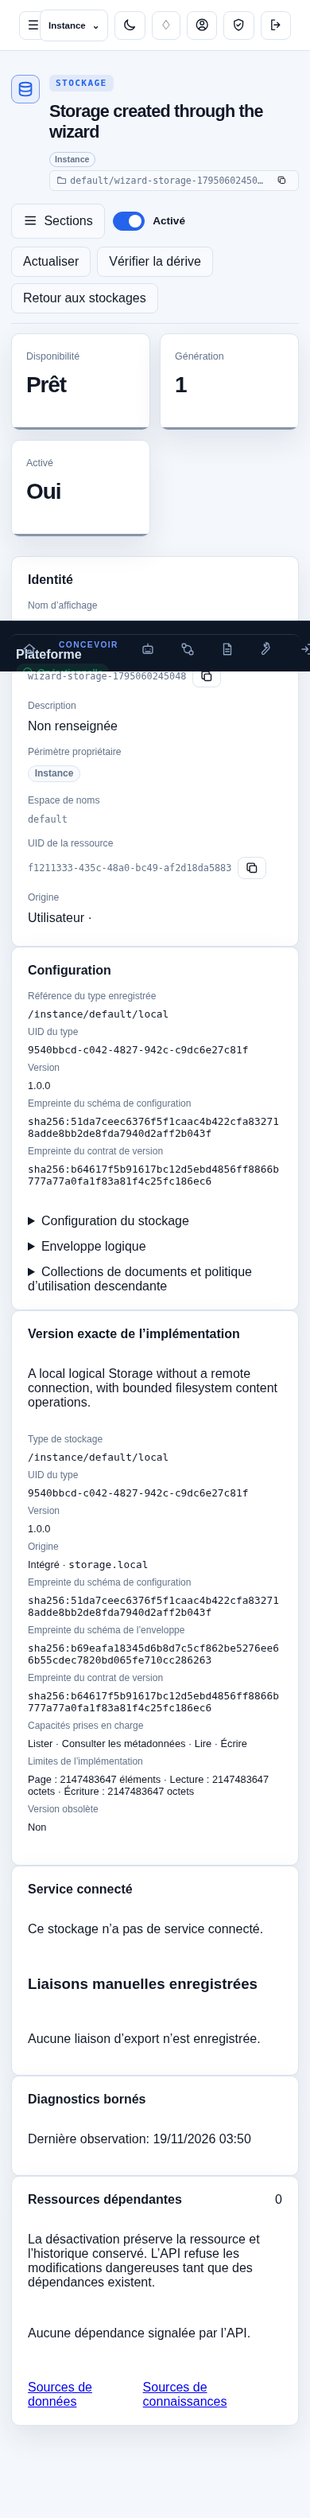
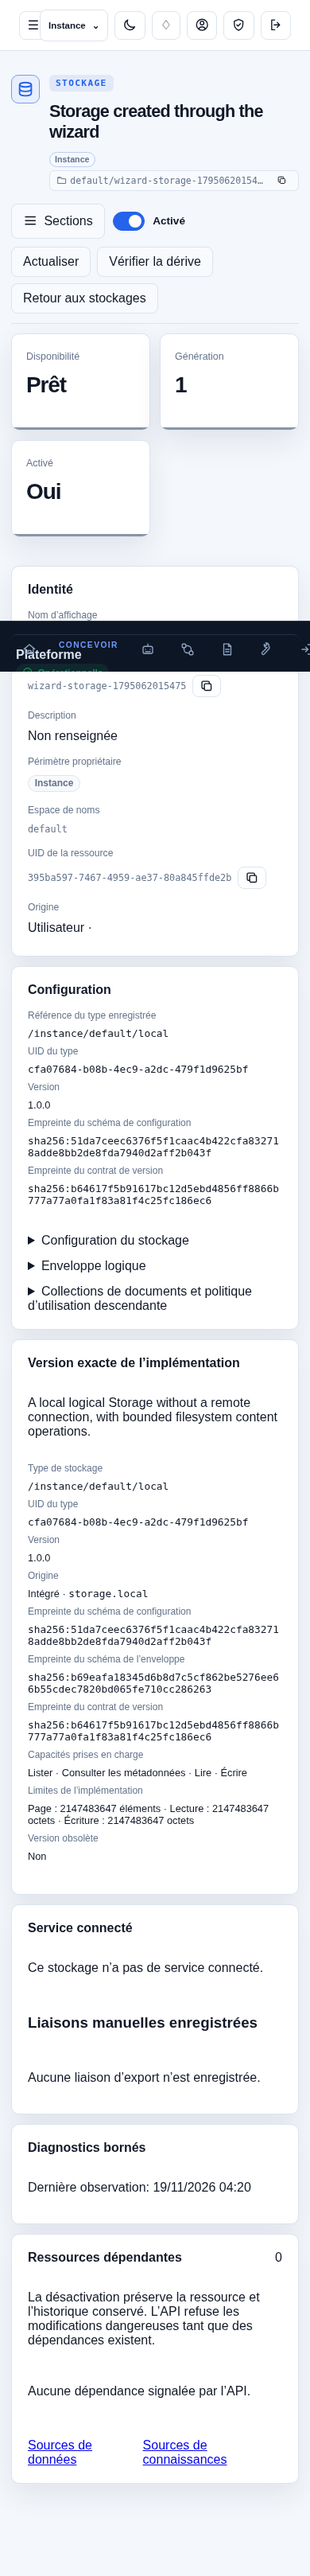
docs(ux): capture artifact audit and spaced resource panels

diff --git a/docs/ux/resource-screen-adoption.md b/docs/ux/resource-screen-adoption.md
@@ -8,7 +8,7 @@ The table is a source inventory, not a claim of browser validation. Route aliase
 | --- | --- | --- |
 | AgentEditor.razor | `/agents/new`, `/agents/{Name}` | Implemented: 6-step creation wizard, saved Identity/owner, exact-owner YAML and retained Access drafts. 27 Agent/shared-access cases and 2 maintained desktop/mobile browser cases pass; [real captures](evidence/resource-screen-adoption/agents/README.md). Final full validation remains pending. |
 | AgentRunner.razor | `/agents/{Name}/run`, `/runs/{RunId}` | Pending review and migration |
-| ConnectedServiceDetails.razor | `/connected-services/{Name}` | Implemented: shared template and Overview/Definition/Discovery/Access/final YAML navigation, saved Identity/owner/configuration, retained definition/discovery and lazy UID-based policy drafts. Existing immediate activation/deactivation confirmations and ETags preserve other edits. Exact body and superseded-load guards retain authorized owner/namespace/context. 36 service/source component cases and the 810-case Console suite pass; At `81b3095a`, both desktop English/dark and French touch/light probes and maintained collection regressions pass; [real captures](evidence/resource-screen-adoption/connected-services/README.md). Final full validation pending. |
+| ConnectedServiceDetails.razor | `/connected-services/{Name}` | Implemented: shared template and Overview/Definition/Discovery/Access/final YAML navigation, saved Identity/owner/configuration, retained definition/discovery and lazy UID-based policy drafts. Existing immediate activation/deactivation confirmations and ETags preserve other edits. Exact body and superseded-load guards retain authorized owner/namespace/context. 36 service/source component cases and the 810-case Console suite pass; At `81b3095a`, both desktop English/dark and French touch/light probes and maintained collection regressions pass; [real captures](evidence/resource-screen-adoption/connected-services/README.md). Final full validation pending. Fresh `050e9607` desktop/French touch probes also verify the positive saved-panel gap; [updated captures](evidence/resource-screen-adoption/connected-services/README.md). Final required functional lanes and smoke validation remain pending. |
 | ConnectedServiceEditor.razor | `/connected-services/new`, `/connected-services/{Name}/edit` | Implemented: shared 4-step Identity/Configuration/Access/Review wizard, unrestricted incomplete navigation and final validation, retained standard fields and binding editors, exact type UID/version/hash, contextual dialogs outside forms and family-owned draft/ETag control. The standalone edit alias redirects once to canonical detail Configuration. 36 service/source component cases and the 810-case Console suite pass for the combined editor/detail changes; At `81b3095a`, both desktop English/dark and French touch/light probes pass; [real captures](evidence/resource-screen-adoption/connected-services/README.md). Final full validation pending. |
 | ConsoleEntryInteraction.razor | `/entry-interactions/{WorkspaceId:guid}/{EntryNamespace}/{EntryName}` | Pending review and migration |
 | DataSourceEditor.razor | `/data-sources/new`, `/data-sources/{Name}` | Pending review and migration |
@@ -18,7 +18,7 @@ The table is a source inventory, not a claim of browser validation. Route aliase
 | FlowDesigner.razor | `/flows/{FlowId}/designer`, `/namespaces/{FlowNamespace}/flows/{FlowId}/designer` | Pending review and migration |
 | FlowDetails.razor | `/flows/{FlowId}`, `/namespaces/{FlowNamespace}/flows/{FlowId}` | Pending review and migration |
 | FlowOrchestrationEditor.razor | `/flows/{FlowId}/orchestration`, `/namespaces/{FlowNamespace}/flows/{FlowId}/orchestration` | Pending review and migration |
-| FlowRunArtifactDetails.razor | `/artifacts/durable/{Id}` | Implemented: shared template and Overview/Content/Storage navigation, exact saved Identity/owner and immutable provenance/receipt. Content is lazy and retained across fragments; record reads and metadata ignore superseded responses. No publication or activation is invented. Maintained browser helpers use shared navigation; 19 artifact component cases pass, including lazy retained content and no reload for fragments. Browser/final validation pending |
+| FlowRunArtifactDetails.razor | `/artifacts/durable/{Id}` | Implemented: shared template and Overview/Content/Storage navigation, exact saved Identity/owner and immutable provenance/receipt. Content is lazy and retained across fragments; record reads and metadata ignore superseded responses. No publication or activation is invented. Maintained browser helpers use shared navigation; 19 artifact component cases pass, including lazy retained content and no reload for fragments. Browser/final validation pending At product build `050e9607`, maintained artifact-content desktop/mobile cases, real desktop/French touch artifact captures and governed-knowledge desktop/mobile/French journeys pass. [Real captures](evidence/resource-screen-adoption/artifacts/README.md). Final required functional lanes and smoke validation remain pending. |
 | FlowRunDetails.razor | `/flow-runs/{RunId}` | Pending review and migration |
 | KnowledgeSourceDetails.razor | `/knowledge-sources/{Name}` | Pending review and migration |
 | KnowledgeSourceEditor.razor | `/knowledge-sources/new`, `/knowledge-sources/{Name}/edit` | Pending review and migration |
@@ -40,8 +40,8 @@ The table is a source inventory, not a claim of browser validation. Route aliase
 | SourceProviderDetails.razor | `/sourceproviders/new`, `/sourceproviders/{Name}` | Implemented; 6 component cases and desktop/mobile creation against the real local Git extension pass; [real captures](evidence/resource-screen-adoption/source-providers/README.md). Final full validation remains pending. |
 | SourceRegistries.razor | `/settings/source-registries`, `/settings/source-registries/new`, `/settings/source-registries/{Name}` | Pending review and migration |
 | Sources.razor | `/settings/sources`, `/settings/sources/{Publisher}/{Name}` | Pending review and migration |
-| StagedArtifactDetails.razor | `/artifacts/staged/{Id}` | Implemented: shared template and Overview/Content/Retention navigation, actual file and identifier Identity without a fabricated resource namespace/owner. Visited content and retention input survive section changes; bounded reads, lease checks and family retention/purge commands remain intact. Shared confirmation restores native focus handling; superseded reads/commands cannot update another artifact. 20 artifact component cases pass, including retained pending expiration and the exact retention command. Browser/final validation pending |
-| StorageDetails.razor | `/storages/{Name}` | Implemented: template and Overview/Definition/authorized Access/final YAML navigation, actual Identity and saved configuration ahead of type/service evidence and diagnostics. Header activation preserves exact references, original confirmation behavior, independent definition drafts and returned ETags. Refresh requires explicit draft discard; Access is lazy and retained with the saved UID/generation and its own dirty guard. Canonical links preserve owner/namespace/context. 134 Storage/source component cases pass for the combined changes. At `81b3095a`, desktop and French touch probes verify exact references, retained drafts and activation ETags; maintained collection regressions pass; [real captures](evidence/resource-screen-adoption/storages/README.md). Final full validation pending. |
+| StagedArtifactDetails.razor | `/artifacts/staged/{Id}` | Implemented: shared template and Overview/Content/Retention navigation, actual file and identifier Identity without a fabricated resource namespace/owner. Visited content and retention input survive section changes; bounded reads, lease checks and family retention/purge commands remain intact. Shared confirmation restores native focus handling; superseded reads/commands cannot update another artifact. 20 artifact component cases pass, including retained pending expiration and the exact retention command. Browser/final validation pending At product build `050e9607`, maintained bounded-content and governed-knowledge desktop/mobile/French journeys pass, including retention/purge. [Real captures](evidence/resource-screen-adoption/artifacts/README.md). A later unbuilt CSS change permits the desktop expiration value to wrap; it needs fresh verification. Final required functional lanes and smoke validation remain pending. |
+| StorageDetails.razor | `/storages/{Name}` | Implemented: template and Overview/Definition/authorized Access/final YAML navigation, actual Identity and saved configuration ahead of type/service evidence and diagnostics. Header activation preserves exact references, original confirmation behavior, independent definition drafts and returned ETags. Refresh requires explicit draft discard; Access is lazy and retained with the saved UID/generation and its own dirty guard. Canonical links preserve owner/namespace/context. 134 Storage/source component cases pass for the combined changes. At `81b3095a`, desktop and French touch probes verify exact references, retained drafts and activation ETags; maintained collection regressions pass; [real captures](evidence/resource-screen-adoption/storages/README.md). Final full validation pending. Fresh `050e9607` desktop/French touch probes also verify the positive saved-panel gap; [updated captures](evidence/resource-screen-adoption/storages/README.md). Final required functional lanes and smoke validation remain pending. |
 | StorageEditor.razor | `/storages/new`, `/storages/{Name}/edit` | Implemented: retained 4-step Identity/Configuration/Access/Review wizard, incomplete navigation and final field validation, original explicit type/service/export selection, saved UID/version/digests, envelope, collections and rebind confirmation. Saved embedded drafts expose their real form and ETag control to the family detail; standalone edit redirects once to canonical Configuration. 134 Storage/source component cases pass for the combined editor/detail changes, including creation after an initial validation error. At `81b3095a`, desktop and French touch probes pass final validation, creation, activation and subsequent metadata save; [real captures](evidence/resource-screen-adoption/storages/README.md). Final full validation pending. |
 | StorageTypeDetails.razor | `/storage-types/{Name}` | Implemented: template and Overview/metadata Definition/immutable Versions/authorized Access/final YAML navigation. Saved Identity, preferred contract and Use policy are explicit; unevaluated Use remains unknown. Version selection survives fragments, publication links select the exact returned version, and header activation preserves metadata drafts, version payloads and ETags. Lazy retained Access uses the saved UID/generation. 50 combined Storage/type component cases pass; At `81b3095a`, desktop and French touch probes verify publication and retained immutable contract selection; maintained collection regressions pass; [real captures](evidence/resource-screen-adoption/storage-types/README.md). Final full validation pending. |
 | StorageTypeEditor.razor | `/storage-types/new`, `/storage-types/{Name}/edit`, `/storage-types/{Name}/versions/new` | Implemented: shared creation wizard and separate new-version wizard, retained standard identity/contract fields and raw invalid schemas, explicit immutable version and preferred-version choice, shared binary switches and final validation. Metadata editing composes into the family detail; exact ETags, managed/inherited restrictions and explicit conflict review retain pending input and immutable contracts. 50 combined Storage/type component cases pass, including new version publication without modifying its predecessor. At `81b3095a`, desktop and French touch probes pass invalid schema retention, final creation validation and explicit immutable publication; [real captures](evidence/resource-screen-adoption/storage-types/README.md). Final full validation pending. |
@@ -50,9 +50,9 @@ The table is a source inventory, not a claim of browser validation. Route aliase
 | ToolCategoryEditor.razor | `/tools/categories/new`, `/tools/categories/{Name}` | Implemented: 3-step wizard/template, saved Identity and exact declarations, retained provider-grouped picker, original ETags and owner-response verification. 10 component cases and source/catalog checks pass; 2 real desktop/mobile probes pass at `c27c8c82`. [Real captures](evidence/resource-screen-adoption/tool-categories/README.md). Final full validation pending |
 | ToolDefinitionEditor.razor | `/tools/definitions/{Name}` | Implemented: saved Flow/acquisition/relay composition, Identity and saved configuration, retained definition sections and lazy UID-based Access, exact-owner history and ETag-preserving commands. Relay retains live bindings, external contextual dialogs and explicit publication review. 61 targeted component, 18 ToolDefinition/relay API and 3 client cases pass; full Console suite: 804 passing cases. 2 real desktop/touch-mobile probes and the maintained schema-contract journey pass; [real captures](evidence/resource-screen-adoption/tool-definitions/README.md). Final full validation pending |
 | ToolDetails.razor | `/tools/{Name}` | Implemented: saved Identity/configuration, ETag-preserving header activation switch, exact-owner reads and execution, retained execution input/results and Access drafts. 8 Tool and 10 category regression cases pass; fresh browser and final full validation pending |
-| ToolGovernanceAudit.razor | `/tool-governance/{Owner}/{RunId}` | Implemented: shared template and Overview/Audit navigation with exact business execution identity; owner kind and execution scope remain explicit context. Standard filter fields and retained input preserve deep filters and real 50-item sequence continuation. Fragment changes avoid reloads and superseded reads cannot replace another execution. Audit remains the initial destination for existing deep call links. 25 combined audit/artifact component cases pass, including retained deep filters, actual pagination and superseded execution responses. Browser/final validation pending |
+| ToolGovernanceAudit.razor | `/tool-governance/{Owner}/{RunId}` | Implemented: shared template and Overview/Audit navigation with exact business execution identity; owner kind and execution scope remain explicit context. Standard filter fields and retained input preserve deep filters and real 50-item sequence continuation. Fragment changes avoid reloads and superseded reads cannot replace another execution. Audit remains the initial destination for existing deep call links. 25 combined audit/artifact component cases pass, including retained deep filters, actual pagination and superseded execution responses. Browser/final validation pending At product build `050e9607`, actual desktop/French touch audit probes pass retained filters and bounds; [real captures](evidence/resource-screen-adoption/execution-audit/README.md). A later invalid-owner label guard needs its component check. Final required functional lanes and smoke validation remain pending. |
 | ToolProviderEditor.razor | `/tools/providers/new`, `/tools/providers/{Name}` | Implemented; 8 component cases, desktop/mobile overview and Tools probes, and 4 managed-inventory browser variants pass; [real captures](evidence/resource-screen-adoption/tool-providers/README.md). Final full validation remains pending. |
-| ToolSetDetails.razor | `/tools/sets/{Name}` | Implemented: template, saved Identity/configuration, version history and retained Access. Header activation is read-only because the existing family client has no enablement command. 12 managed-family component cases and source/catalog checks pass; browser and final full validation pending |
+| ToolSetDetails.razor | `/tools/sets/{Name}` | Implemented: template, saved Identity/configuration, version history and retained Access. Header activation is read-only because the existing family client has no enablement command. 12 managed-family component cases and source/catalog checks pass; browser and final full validation pending At product build `050e9607`, maintained governed-knowledge desktop/mobile/French journeys pass immutable history, Agent pins, deletion restrictions and reader authorization. The maintained helpers explicitly navigate Overview/Versions and target native confirmations. Final required functional lanes and smoke validation remain pending. |
 | TransformationFunctionEditor.razor | `/transformation-functions/{Name}` | Pending review and migration |
 | TriggerDetails.razor | `/triggers/{Name}` | Pending review and migration |
 | TriggerEditor.razor | `/triggers/new`, `/triggers/{Name}/edit` | Pending review and migration |

diff --git a/docs/ux/evidence/resource-screen-adoption/connected-services/README.md b/docs/ux/evidence/resource-screen-adoption/connected-services/README.md
@@ -1,12 +1,14 @@
-# Connected services: application evidence
+# Connected services: real application evidence
 
-Source: `81b3095ad9caa023addccb5f3d121476fbe0017b`. These PNGs are screenshots of the running application, not mock-ups. The Release host build completed before the campaign and no referenced assemblies changed during it.
+Product build: `050e9607ef2f53506aedab87cb43aa45aac71fe5` (Release, no warning or error; 823 Console component cases pass). Assemblies stayed unchanged throughout the campaigns. Screenshots are real Chromium captures, not mock-ups.
 
-Creation with incomplete navigation and final validation, saved Identity and configuration, a retained definition draft, explicit discard and actual save. The temporary probe uses tap on its own mobile controls; shared page-object navigation uses click. It does not claim a fresh policy-write or every discovery command.
+Creation with incomplete navigation/final validation, saved Identity, retained definition input, discard and a real metadata save. Both variants now verify positive space between Identity and Configuration, after styles are applied. Mobile probe controls use tap; shared page-object navigation uses click. These images do not claim every discovery command or a policy-write transaction.
 
-Both desktop English/dark (1440×1000) and French touch/light (390×844) pass horizontal-bound checks before each capture. Prerequisites await persisted preferences, language and theme; the operational setup hard-reloads the shell after changing preferences.
+Desktop English/dark is 1440×1000; French light/touch is 390×844. Setup awaits persisted preferences, actual language/theme and context readiness.
 
-At this commit the Release solution build has no warning or error, and all 819 Console component cases pass. The temporary storage, connected-service and operational probes (6 cases), maintained connected/storage collection regression (2 cases), and separate temporary storage-type probes (2 cases) pass. These are focused evidence, not the final required Fast/Integration and browser-smoke validation. New reusable UX journeys remain deferred under the repository authoring rules.
+The first temporary geometry probe measured immediately after navigation and failed before the styles were applied; its failure screenshot already showed the intended gap. The corrected probe polls the SAME positive-spacing assertion with Playwright’s default timeout. Both fresh variants pass on the unchanged product build. No assertion was removed or timeout increased.
+
+Final required Fast/Integration and browser smoke validation remains pending. New reusable UX journeys stay deferred under the repository authoring rules. Later unbuilt member-screen edits are not covered by this source commit.
 
 - [connected-service-review-desktop-en.png](connected-service-review-desktop-en.png)
 - [connected-service-overview-desktop-en.png](connected-service-overview-desktop-en.png)

diff --git a/docs/ux/evidence/resource-screen-adoption/storages/README.md b/docs/ux/evidence/resource-screen-adoption/storages/README.md
@@ -1,12 +1,14 @@
-# Storages: application evidence
+# Storages: real application evidence
 
-Source: `81b3095ad9caa023addccb5f3d121476fbe0017b`. These PNGs are screenshots of the running application, not mock-ups. The Release host build completed before the campaign and no referenced assemblies changed during it.
+Product build: `050e9607ef2f53506aedab87cb43aa45aac71fe5` (Release, no warning or error; 823 Console component cases pass). Assemblies stayed unchanged throughout the campaigns. Screenshots are real Chromium captures, not mock-ups.
 
-Creation with incomplete navigation, inline identity errors and successful final validation. Exact built-in local type UID/version is checked through scoped API reads. Header deactivation confirms, retains another metadata draft and supplies the fresh ETag to its subsequent save; the exact type reference survives. Mobile probe controls use tap.
+Creation, final identity validation, exact authorized built-in type UID/version and metadata save after header deactivation preserve pending input, the immutable reference and returned ETag. Both variants also verify positive space between the saved Identity and Configuration panels after styles are applied. Mobile probe controls use real tap.
 
-Both desktop English/dark (1440×1000) and French touch/light (390×844) pass horizontal-bound checks before each capture. Prerequisites await persisted preferences, language and theme; the operational setup hard-reloads the shell after changing preferences.
+Desktop English/dark is 1440×1000; French light/touch is 390×844. Setup awaits persisted preferences, actual language/theme and context readiness.
 
-At this commit the Release solution build has no warning or error, and all 819 Console component cases pass. The temporary storage, connected-service and operational probes (6 cases), maintained connected/storage collection regression (2 cases), and separate temporary storage-type probes (2 cases) pass. These are focused evidence, not the final required Fast/Integration and browser-smoke validation. New reusable UX journeys remain deferred under the repository authoring rules.
+The first temporary geometry probe measured immediately after navigation and failed before the styles were applied; its failure screenshot already showed the intended gap. The corrected probe polls the SAME positive-spacing assertion with Playwright’s default timeout. Both fresh variants pass on the unchanged product build. No assertion was removed or timeout increased.
+
+Final required Fast/Integration and browser smoke validation remains pending. New reusable UX journeys stay deferred under the repository authoring rules. Later unbuilt member-screen edits are not covered by this source commit.
 
 - [storage-review-desktop-en.png](storage-review-desktop-en.png)
 - [storage-overview-desktop-en.png](storage-overview-desktop-en.png)

diff --git a/docs/ux/evidence/resource-screen-adoption/execution-audit/README.md b/docs/ux/evidence/resource-screen-adoption/execution-audit/README.md
@@ -1,0 +1,16 @@
+# Execution governance audit: real application evidence
+
+Product build: `050e9607ef2f53506aedab87cb43aa45aac71fe5` (Release, no warning or error; 823 Console component cases pass). Assemblies stayed unchanged throughout the campaigns. Screenshots are real Chromium captures, not mock-ups.
+
+The real storage Flow execution supplies the audit target. Overview shows the actual execution kind/ID and business context; Audit retains a pending logical-call filter across sections. This capture does not assert a nonempty audit, pagination or a specific hook decision; component tests independently cover real cursor forwarding and superseded responses. Mobile navigation uses actual tap. Both document width and positive panel spacing are checked.
+
+Desktop English/dark is 1440×1000; French light/touch is 390×844. Setup awaits persisted preferences, actual language/theme and context readiness.
+
+The first temporary geometry probe measured immediately after navigation and failed before the styles were applied; its failure screenshot already showed the intended gap. The corrected probe polls the SAME positive-spacing assertion with Playwright’s default timeout. Both fresh variants pass on the unchanged product build. No assertion was removed or timeout increased.
+
+Final required Fast/Integration and browser smoke validation remains pending. New reusable UX journeys stay deferred under the repository authoring rules. Later unbuilt member-screen edits are not covered by this source commit.
+
+- [execution-audit-overview-desktop-en.png](execution-audit-overview-desktop-en.png)
+- [execution-audit-retained-filter-desktop-en.png](execution-audit-retained-filter-desktop-en.png)
+- [execution-audit-overview-mobile-fr.png](execution-audit-overview-mobile-fr.png)
+- [execution-audit-retained-filter-mobile-fr.png](execution-audit-retained-filter-mobile-fr.png)
